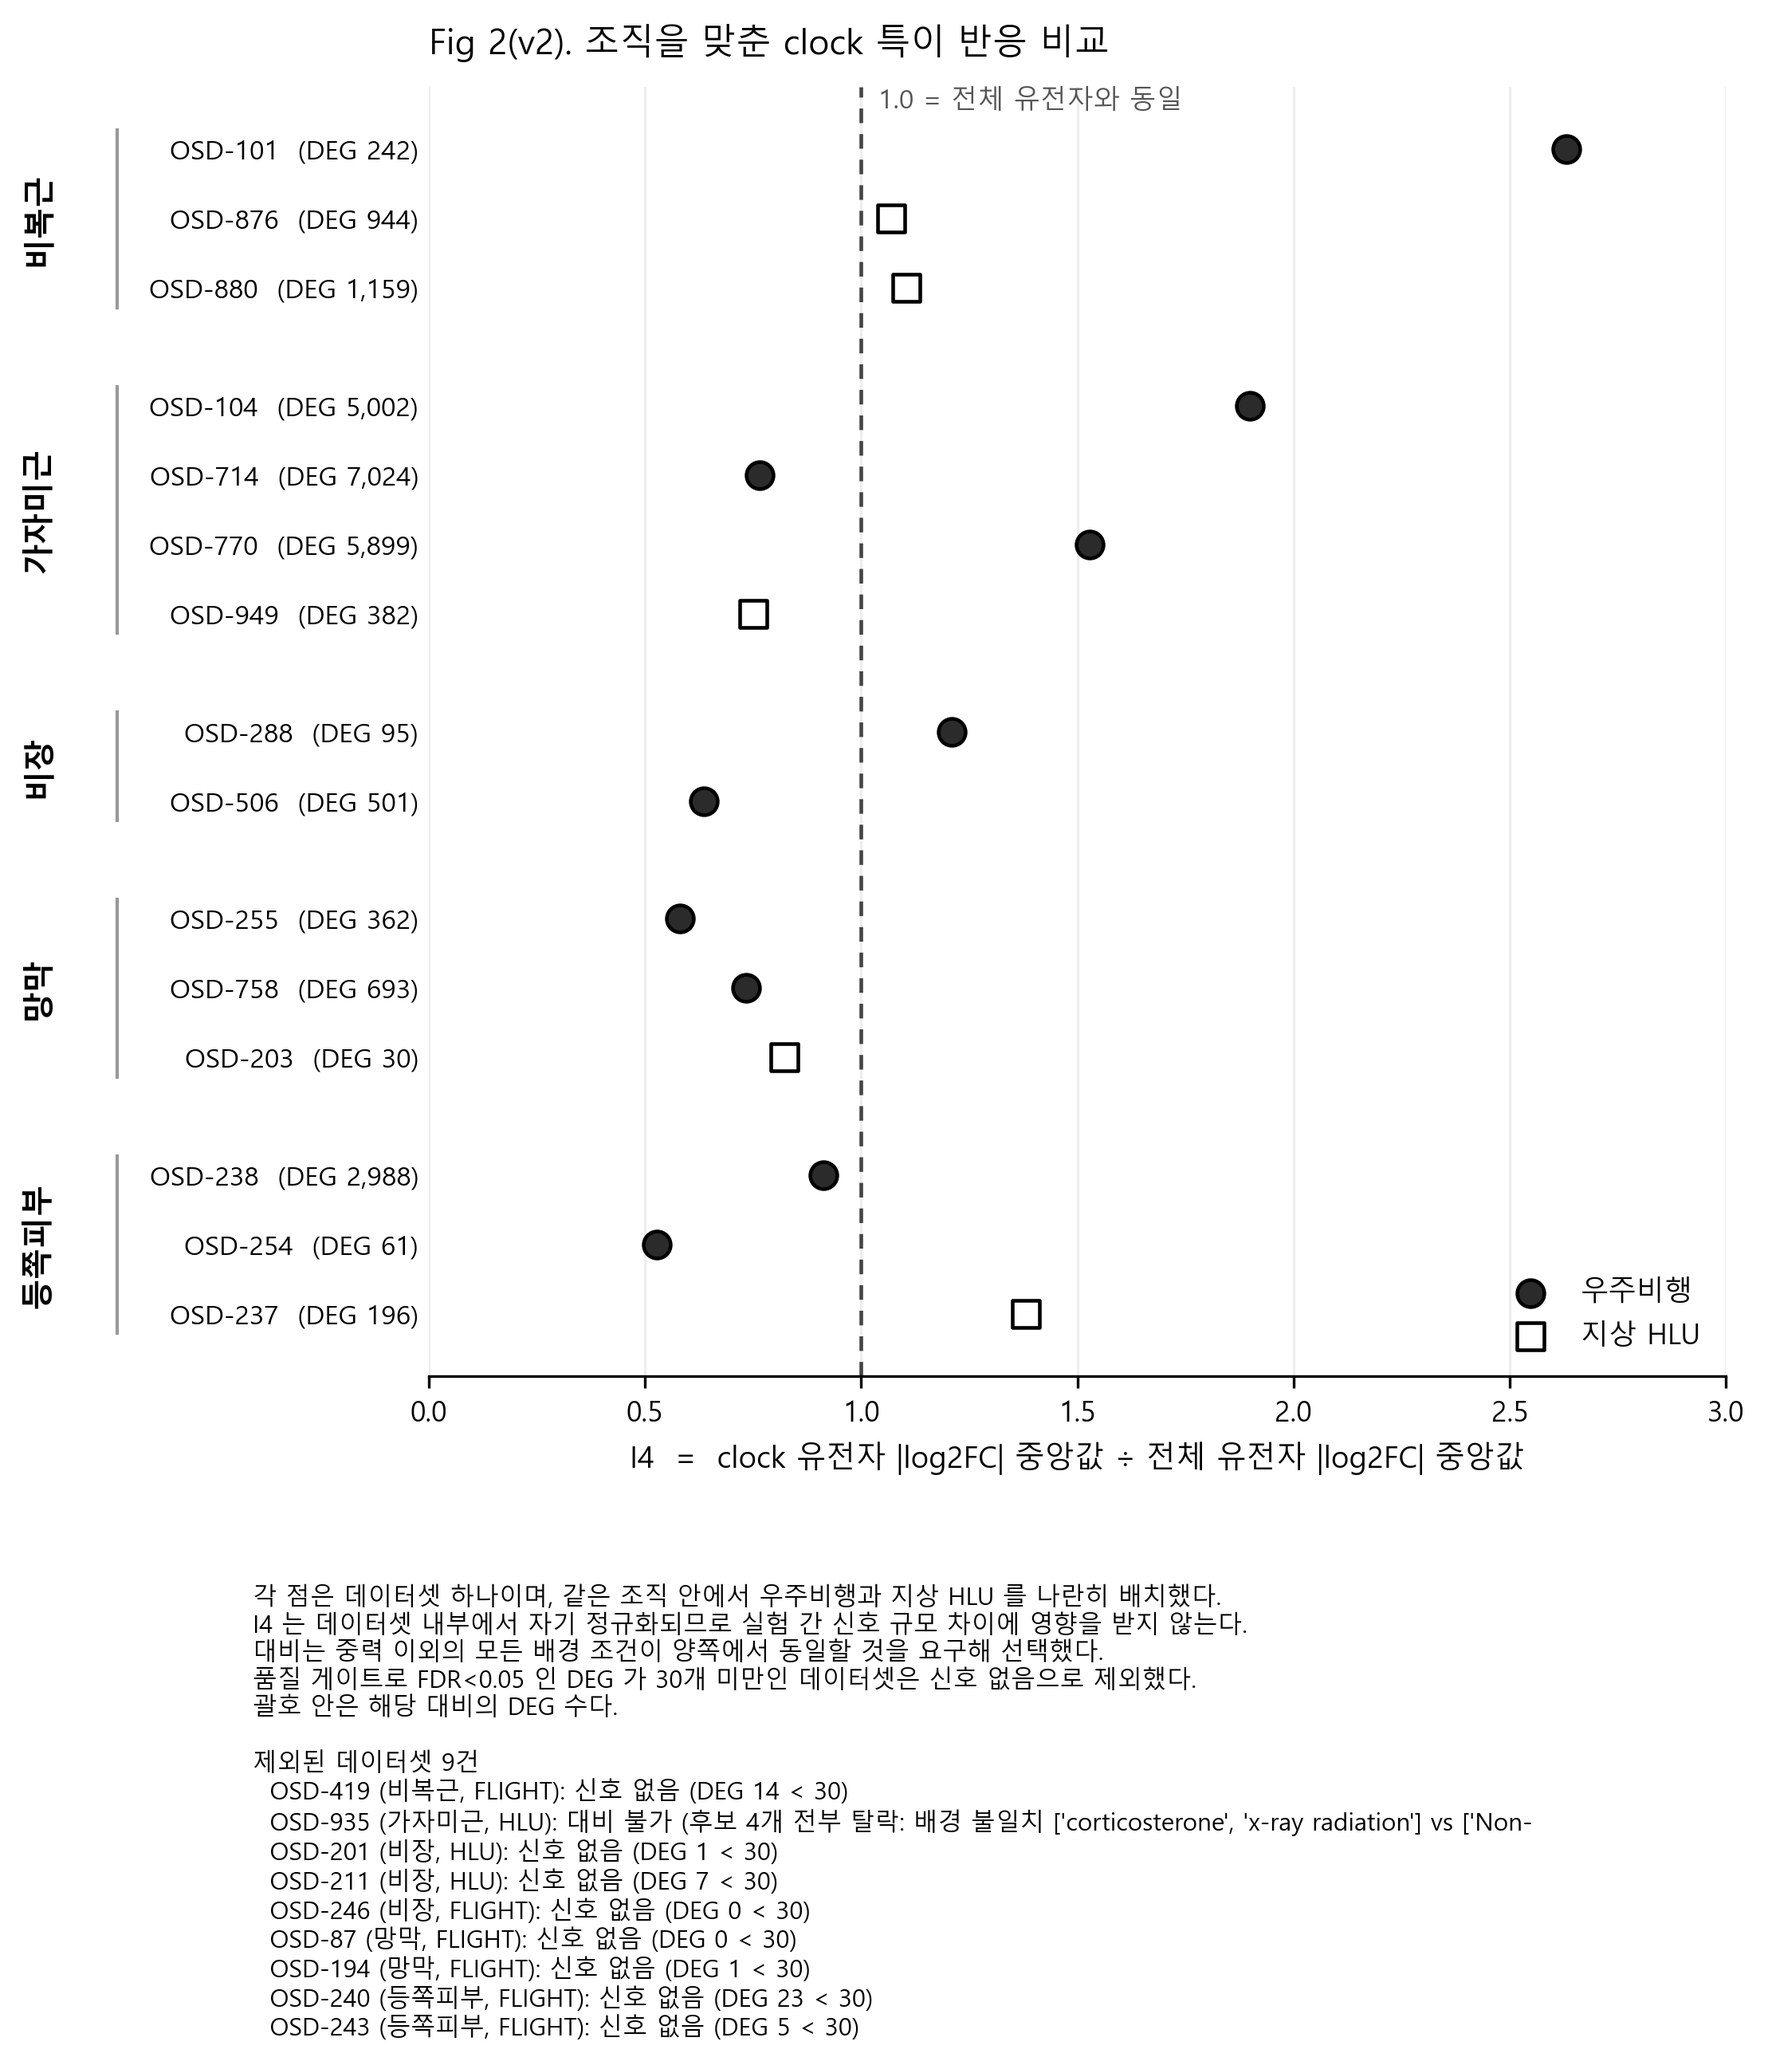
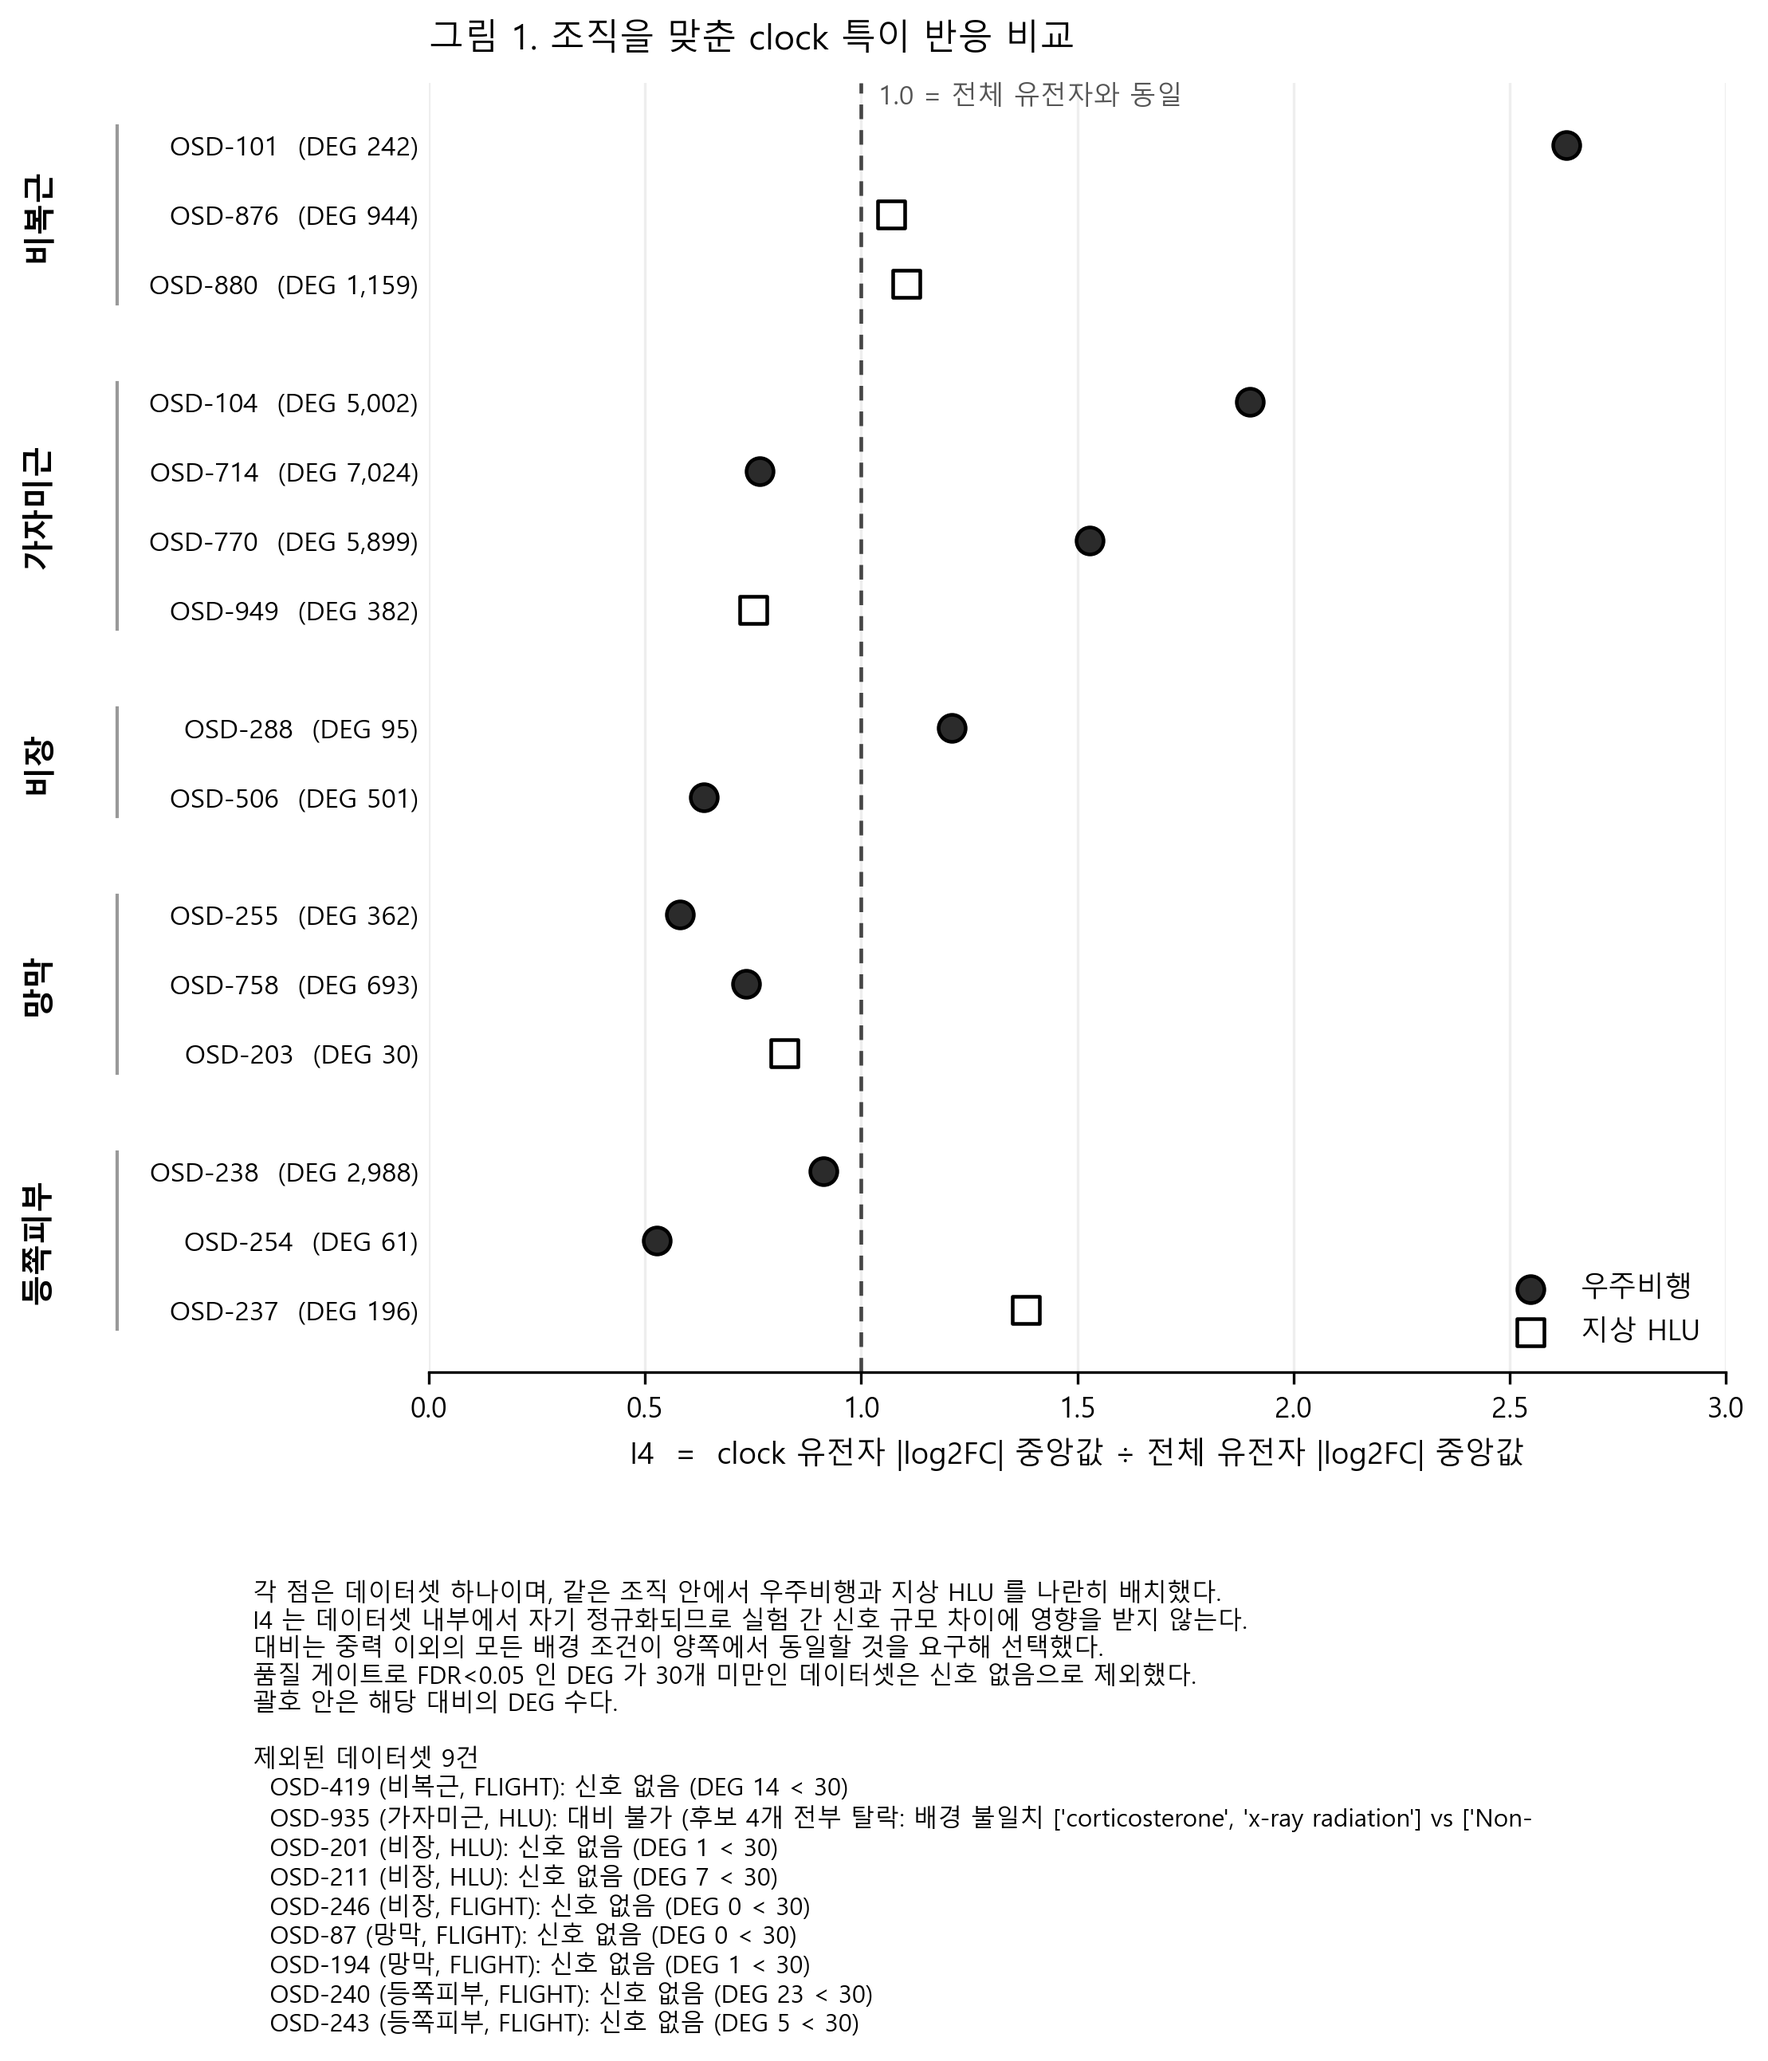
그림 1: 제목 번호 불일치 수정, 검증된 재실행본으로 재생성
그림 제목이 'Fig 2(v2)' 였으나 계획서에서는 그림 1이다. v2 작업 당시
파일명 기준으로 붙인 것이 그대로 남아 있었다.

또 그림 1은 07-29 10:22 생성분으로 오염된 CSV(15:57) 이전이라 값 자체는
정상이었으나, 검증된 재실행본으로 다시 만들었다. 채택 15 / 제외 9 로 동일.

diff --git a/src/v2_figure.py b/src/v2_figure.py
@@ -88,7 +88,9 @@ def main():
 
     ax.set_xlabel("I4  =  clock 유전자 |log2FC| 중앙값 ÷ 전체 유전자 |log2FC| 중앙값")
     ax.legend(loc="lower right", frameon=False)
-    ax.set_title("Fig 2(v2). 조직을 맞춘 clock 특이 반응 비교", loc="left",
+    # 제목은 계획서의 그림 번호를 따른다.
+    # (v2 작업 당시 파일명 기준으로 'Fig 2(v2)' 라 붙였으나 계획서에서는 그림 1이다.)
+    ax.set_title("그림 1. 조직을 맞춘 clock 특이 반응 비교", loc="left",
                  fontsize=10.5, pad=10)
     ax.text(1.04, R.y.max() + 0.6, "1.0 = 전체 유전자와 동일", fontsize=8, color="#555555")
 
